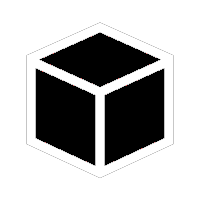
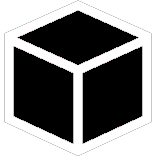
장비/무기슬롯 아이콘 추가
1. 인벤토리에 등록된 아이템 아이콘 주위에 15%의 여백공간을 만듦.
2. 여백에 맞게 기존 아이콘 크기 조정, 각 슬롯의 default Icon 추가
3. 장비 아이템의 크기 보정이 안되던 오류 수정

diff --git a/cube-game/Assets/Scripts/Item.cs b/cube-game/Assets/Scripts/Item.cs
@@ -25,10 +25,6 @@ public abstract class Item : MonoBehaviour
     }
     protected virtual void Awake()
     {
-        float sz = 0;
-        foreach (var mr in transform.GetComponentsInChildren<MeshRenderer>())
-            sz = Mathf.Max(sz, mr.localBounds.size.magnitude) / Mathf.Sqrt(3);
-        transform.localScale /= sz;
         //OnEnable에 있으면 아이템이 drop될때 자동으로 꺼져서 안됨.
         GetComponent<SphereCollider>().enabled = false;
         GetComponent<SphereCollider>().radius = 5 / correction();
@@ -40,6 +36,10 @@ public abstract class Item : MonoBehaviour
     }
     protected virtual void OnEnable()
     {
+        float sz = 0;
+        foreach (var mr in transform.GetComponentsInChildren<MeshRenderer>())
+            sz = Mathf.Max(sz, mr.localBounds.size.magnitude) / Mathf.Sqrt(3);
+        transform.localScale /= sz;
     }
 
     public virtual void Drop()
@@ -65,7 +65,7 @@ public abstract class Item : MonoBehaviour
     }
     public virtual void put()
     {
-        transform.localScale = Vector3.one;
+        transform.localScale *= 3;
         transform.rotation = Quaternion.identity;
         BoxCollider boxCollider = GetComponent<BoxCollider>();
         if (data.itemType != ItemType.Cube)

diff --git a/cube-game/Assets/Scripts/Gun.cs b/cube-game/Assets/Scripts/Gun.cs
@@ -17,9 +17,9 @@ public class Gun : Weapon, IReloadable
 
     private float lastFireTime; // 총을 마지막으로 발사한 시점
 
-    private void Awake()
+    protected override void Awake()
     {
-        // 사용할 컴포넌트의 참조 가져오기
+        base.Awake();
     }
 
     public override void InitializeData(ItemData itemData)
